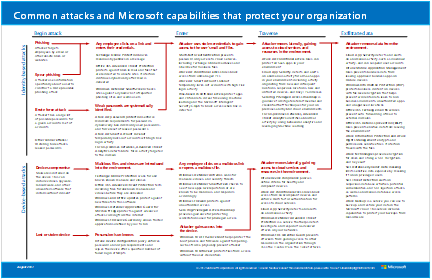
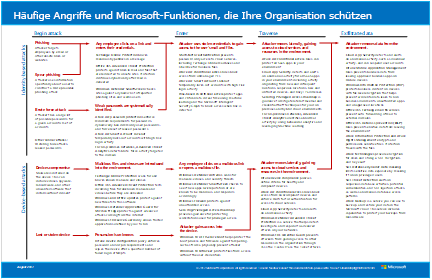
commit translated contents

Changed region(s): [[0.0301, 0.0286, 0.8727, 0.0857]]

diff --git a/Enterprise/hybrid-modern-auth-overview.md b/Enterprise/hybrid-modern-auth-overview.md
@@ -1,10 +1,9 @@
 ---
-title: Übersicht über die moderne Hybrid Authentifizierung und Voraussetzungen für die Verwendung mit lokalen Skype for Business-und Exchange-Servern
+title: Übersicht über die moderne Hybrid Authentifizierung und Voraussetzungen für die Verwendung mit lokalen Skype for Business und Exchange-Servern
 ms.author: tracyp
 ms.reviewer: smithre4
 author: MSFTTracyP
 manager: laurawi
-ms.date: ''
 audience: ITPro
 ms.topic: article
 ms.service: o365-administration
@@ -12,17 +11,17 @@ localization_priority: Normal
 ms.assetid: ef753b32-7251-4c9e-b442-1a5aec14e58d
 ms.collection:
 - M365-security-compliance
-description: Die moderne Authentifizierung ist eine Methode zur Identitätsverwaltung, die eine sicherere Benutzerauthentifizierung und Autorisierung bietet. Es steht für hybridbereitstellungen von lokalen Skype for Business Server-und Exchange Server-lokalen sowie für geteilte Skype for Business-Hybriden zur Verfügung. Dieser Artikel enthält Links zu verwandten Dokumenten zu Voraussetzungen, zum Einrichten/deaktivieren moderner Authentifizierung und zu einigen der zugehörigen Clients (ex. Outlook-und Skype-Clients).
-ms.openlocfilehash: 17c61b028aacd5abaf72450e197475fa2c0a2589
-ms.sourcegitcommit: 08e1e1c09f64926394043291a77856620d6f72b5
+description: Die moderne Authentifizierung ist eine Methode zur Identitätsverwaltung, die eine sicherere Benutzerauthentifizierung und-Autorisierung bietet. Sie ist für hybridbereitstellungen von lokalen Skype for Business-Servern und lokalen Exchange-Servern sowie für geteilte Domänen Skype for Business Hybriden verfügbar. Dieser Artikel enthält Links zu verwandten Dokumenten zu Voraussetzungen, zur Einrichtung/Deaktivierung moderner Authentifizierung und zu einigen der verwandten Clients (ex. Outlook-und Skype-Clients) Informationen.
+ms.openlocfilehash: 0448dfdc46598a6aa4df0108214ff0a4cf290382
+ms.sourcegitcommit: 54c07ffcfe0da286b1780fdc03ba2f2fd0dbc86d
 ms.translationtype: MT
 ms.contentlocale: de-DE
-ms.lasthandoff: 05/15/2019
-ms.locfileid: "34067201"
+ms.lasthandoff: 05/22/2019
+ms.locfileid: "34404217"
 ---
-# <a name="hybrid-modern-authentication-overview-and-prerequisites-for-using-it-with-on-premises-skype-for-business-and-exchange-servers"></a>Übersicht über die moderne Hybrid Authentifizierung und Voraussetzungen für die Verwendung mit lokalen Skype for Business-und Exchange-Servern
+# <a name="hybrid-modern-authentication-overview-and-prerequisites-for-using-it-with-on-premises-skype-for-business-and-exchange-servers"></a>Übersicht über die moderne Hybrid Authentifizierung und Voraussetzungen für die Verwendung mit lokalen Skype for Business und Exchange-Servern
 
-Die moderne Authentifizierung ist eine Methode zur Identitätsverwaltung, die eine sicherere Benutzerauthentifizierung und Autorisierung bietet. Es steht für Office 365 Hybrid-Bereitstellungen von lokalen Skype for Business Server-und Exchange Server-lokalen sowie für geteilte Skype for Business-Hybriden zur Verfügung. Dieser Artikel enthält Links zu verwandten Dokumenten zu Voraussetzungen, zum Einrichten/deaktivieren moderner Authentifizierung und zu einigen der zugehörigen Clients (ex. Outlook-und Skype-Clients). 
+Die moderne Authentifizierung ist eine Methode zur Identitätsverwaltung, die eine sicherere Benutzerauthentifizierung und-Autorisierung bietet. Sie ist für Office 365 hybridbereitstellungen von lokalen Skype for Business-Servern und lokalen Exchange-Servern sowie von Skype for Business Hybriden mit geteilten Domänen verfügbar. Dieser Artikel enthält Links zu verwandten Dokumenten zu Voraussetzungen, zur Einrichtung/Deaktivierung moderner Authentifizierung und zu einigen der verwandten Clients (ex. Outlook-und Skype-Clients) Informationen. 
   
 - [Was ist die moderne Authentifizierung?](hybrid-modern-auth-overview.md#BKMK_WhatisModAuth)
     
@@ -30,7 +29,7 @@ Die moderne Authentifizierung ist eine Methode zur Identitätsverwaltung, die ei
     
 - [Überprüfen des modernen Authentifizierungsstatus Ihrer lokalen Umgebung](hybrid-modern-auth-overview.md#BKMK_CheckStatus)
     
-- [Erfüllen Sie die Voraussetzungen für moderne Authentifizierung?](hybrid-modern-auth-overview.md#BKMK_MeetPrereq)
+- [Erfüllen Sie die Voraussetzungen für die moderne Authentifizierung?](#do-you-meet-modern-authentication-prerequisites)
     
 - [Was muss ich noch wissen, bevor ich beginne?](hybrid-modern-auth-overview.md#BKMK_Whatelse)
     
@@ -39,75 +38,75 @@ Die moderne Authentifizierung ist eine Methode zur Identitätsverwaltung, die ei
 ## <a name="what-is-modern-authentication"></a>Was ist die moderne Authentifizierung?
 <a name="BKMK_WhatisModAuth"> </a>
 
-Bei der Kommunikation zwischen einem Client (beispielsweise Ihrem Laptop oder Ihrem Telefon) und einem Server verwendet Microsoft den Begriff "moderne Authentifizierung".
+Wenn es um die Kommunikation zwischen einem Client (beispielsweise Ihrem Laptop oder Ihrem Telefon) und einem Server geht, verwendet Microsoft den Ausdruck "moderne Authentifizierung".
   
-Die moderne Authentifizierung ist ein Überbegriff für eine Kombination aus Authentifizierungs-und Autorisierungsmethoden sowie einige Sicherheitsmaßnahmen, die auf Zugriffsrichtlinien basieren, die Sie möglicherweise bereits kennen. Sie umfasst Folgendes:
+Die moderne Authentifizierung ist ein Oberbegriff für eine Kombination aus Authentifizierungs-und Autorisierungsmethoden sowie einiger Sicherheitsmaßnahmen, die auf Zugriffsrichtlinien beruhen, die Sie möglicherweise bereits kennen. Sie umfasst Folgendes:
   
-- **Authentifizierungsmethoden**: mehrstufige Authentifizierung; Client zertifikatbasierte Authentifizierung; und die Active Directory-Authentifizierungsbibliothek ( [Adal](https://technet.microsoft.com/en-us/library/mt710548.aspx)).
+- **Authentifizierungsmethoden**: mehrstufige Authentifizierung; Client zertifikatbasierte Authentifizierung.
     
 - **Autorisierungsmethoden**: Microsoft-Implementierung der Open Authorization (OAuth). 
     
-- **Richtlinien für bedingten Zugriff**: Mobile Application Management (MAM) und Azure Active Directory-bedingter Zugriff. 
+- **Richtlinien für den bedingten Zugriff**: MAM (Mobile Application Management) und Azure Active Directory bedingten Zugriff. 
     
-Das Verwalten von Benutzeridentitäten mit moderner Authentifizierung gibt Administratoren viele verschiedene Tools, die bei der Sicherung von Ressourcen verwendet werden können, und bietet sicherere Methoden zur Identitätsverwaltung sowohl für lokale (Exchange als auch Skype for Business), Exchange Hybrid und Skype for Business-Szenarien mit Hybrid-und geteilten Domänen.
+Durch die Verwaltung von Benutzeridentitäten mit moderner Authentifizierung können Administratoren viele verschiedene Tools verwenden, wenn es um die Sicherung von Ressourcen geht, und bietet sicherere Methoden der Identitätsverwaltung sowohl lokal (Exchange und Skype for Business), Exchange-Hybrid und Skype for Business Szenarien mit Hybriden/geteilten Domänen.
   
-Beachten Sie, dass das Anmeldeverhalten von Skype for Business-Client Benutzern, da Skype for Business eng mit Exchange arbeitet, durch den modernen Authentifizierungsstatus von Exchange beeinflusst wird. Dies gilt auch, wenn Sie eine hybride Skype for Business Split-Domain haben. Außerdem wird die Art der Skype for Business-hybride, die die Verwendung der modernen Authentifizierung unterstützt, häufig als "geteilte Domäne" bezeichnet (in einer geteilten Domäne haben Sie sowohl Skype for Business Online als auch Skype for Business auf-Prem, und Benutzer werden an beiden Standorten verwaltet).
+Beachten Sie, dass das Anmeldeverhalten Skype for Business Client Benutzern durch den modernen Authentifizierungsstatus von Exchange bewirkt wird, da Skype for Business eng mit Exchange zusammenarbeitet. Dies gilt auch dann, wenn Sie über eine Skype for Business geteilte Domänen-Hybridlösung verfügen. Außerdem wird der Typ Skype for Business Hybrid, der die Verwendung der modernen Authentifizierung unterstützt, häufig als "Split-Domäne" bezeichnet (in einer geteilten Domäne haben Sie sowohl Skype for Business Online als auch Skype for Business auf-Prem, und die Benutzer werden an beiden Orten verwaltet).
   
 > [!IMPORTANT]
-> Wussten Sie, dass ab August 2017 alle neuen Office 365-Mandanten, die Skype for Business Online und Exchange Online verwenden, die moderne Authentifizierung standardmäßig aktiviert haben? Bereits vorhandene Mandanten haben keine Änderung im Standardstatus MA, aber alle neuen Mandanten unterstützen automatisch den erweiterten Satz von Identitätsfeatures, die oben aufgeführt sind. Um Ihren Status für Skype for Business Online zu überprüfen, können Sie Skype for Business Online PowerShell mit globalen Administratoranmeldeinformationen verwenden. Ausführen `Get-CsOAuthConfiguration` , um die Ausgabe von-ClientADALAuthOverride zu überprüfen. Wenn-ClientADALAuthOverride "zulässig" ist, ist Ihre moderne Authentifizierung eingeschaltet. 
+> Wussten Sie, dass ab August 2017 alle neuen Office 365 Mandanten, die Skype for Business Online und Exchange Online enthalten, standardmäßig aktiviert ist? Bereits vorhandene Mandanten haben keine Änderung im Standard-MA-Zustand, aber alle neuen Mandanten unterstützen automatisch die erweiterte Gruppe von Identitätsfunktionen, die oben aufgeführt sind. Um den MA-Status für Skype for Business Online zu überprüfen, können Sie Skype for Business Online-PowerShell mit globalen Administratoranmeldeinformationen verwenden. Ausführen `Get-CsOAuthConfiguration` , um die Ausgabe von-ClientADALAuthOverride zu überprüfen. Wenn-ClientADALAuthOverride "Allowed" ist, ist die moderne Authentifizierung eingeschaltet. 
   
 ## <a name="what-changes-when-i-use-modern-authentication"></a>Was ändert sich, wenn ich die moderne Authentifizierung verwende?
 <a name="BKMK_WhatChanges"> </a>
 
-Wenn Sie moderne Authentifizierung mit lokalem Skype for Business oder Exchange Server verwenden, *Authentifizieren* Sie Benutzer weiterhin lokal, aber die Geschichte der *Autorisierung* des Zugriffs auf Ressourcen (wie Dateien oder e-Mails) ändert sich. Obwohl bei der modernen Authentifizierung die Client-und Server Kommunikation durchgeführt wird, führen die Schritte beim Konfigurieren von Ma dazu, dass evoSTS (ein von Azure AD verwendeter Sicherheitstokendienst) als Authentifizierungsserver für Skype for Business und Exchange Server festgelegt wird. 
+Wenn Sie die moderne Authentifizierung mit lokalem Skype for Business oder Exchange Server verwenden, werden Benutzer weiterhin lokal *authentifiziert* , aber die Geschichte der *Autorisierung* Ihres Zugriffs auf Ressourcen (wie Dateien oder e-Mails) ändert sich. Aus diesem Grund wird bei der modernen Authentifizierung die Client-und Server Kommunikation durchgeführt, während die Schritte beim Konfigurieren von Ma dazu führen, dass evoSTS (ein Sicherheitstokendienst, der von Azure AD verwendet wird) als Authentifizierungsserver für Skype for Business und Exchange Server lokal festgelegt wird. 
   
-Die Änderung an evoSTS ermöglicht Ihren lokalen Servern das Nutzen von OAuth (Token Emission) für die Autorisierung Ihrer Clients und ermöglicht auch, dass Ihre lokalen Sicherheitsmethoden in der Cloud gemeinsam nutzen (wie mehrstufige Authentifizierung). Darüber hinaus gibt der evoSTS Token heraus, mit denen Benutzer Zugriff auf Ressourcen anfordern können, ohne Ihr Kennwort als Teil der Anforderung anzugeben. Unabhängig davon, wo Ihre Benutzer (von Online oder lokal) verwaltet werden, und unabhängig davon, an welchem Speicherort die erforderliche Ressource gehostet wird, wird EvoSTS der Kern der Autorisierung von Benutzern und Clients, nachdem die moderne Authentifizierung konfiguriert wurde.
+Durch die Änderung an evoSTS können Ihre lokalen Server die Vorteile von OAuth (Token Emission) zum Autorisieren ihrer Clients nutzen und ihre lokalen Sicherheitsmethoden in der Cloud (wie die mehrstufige Authentifizierung) auch gemeinsam nutzen. Darüber hinaus gibt das evoSTS Token aus, mit denen Benutzer Zugriff auf Ressourcen anfordern können, ohne Ihr Kennwort als Teil der Anforderung anzugeben. Unabhängig davon, wo Ihre Benutzer verwaltet werden (Online oder lokal), und unabhängig davon, an welchem Standort die erforderliche Ressource gehostet wird, wird EvoSTS zum Kern der Autorisierung von Benutzern und Clients werden, sobald die moderne Authentifizierung konfiguriert ist.
   
-Hier sehen Sie ein Beispiel dafür, was ich meine. Wenn der Skype for Business-Client auf Exchange Server zugreifen muss, um Kalenderinformationen im Namen eines Benutzers abzurufen, wird die Active Directory-Authentifizierungsbibliothek (Adal) dazu verwendet. Adal ist eine Codebibliothek, mit der gesicherte Ressourcen in Ihrem Verzeichnis für Clientanwendungen mit OAuth-Sicherheitstoken zur Verfügung gestellt werden. Adal verwendet OAuth zum Überprüfen von Anspruchs-und Exchange-Token (anstelle von Kennwörtern), um einem Benutzer Zugriff auf eine Ressource zu gewähren. In der Vergangenheit war die Autorität in einer Transaktion wie dieser--der Server, der die Benutzeranforderungen überprüfen und die erforderlichen Token ausgeben kann--möglicherweise ein Sicherheitstokendienst oder sogar Active Directory-Verbunddienste. Die moderne Authentifizierung zentralisiert diese Autorität jedoch mit Azure Active Directory (Azure AD) in der Cloud.
+Hier ist ein Beispiel dafür, was ich meine. Wenn Skype for Business-Client auf Exchange Server zugreifen muss, um Kalenderinformationen im Namen eines Benutzers abzurufen, wird hierfür die Active Directory-Authentifizierungsbibliothek (Adal) verwendet. Adal ist eine Codebibliothek, mit der gesicherte Ressourcen in Ihrem Verzeichnis für Clientanwendungen mithilfe von OAuth-Sicherheitstoken verfügbar gemacht werden können. Adal arbeitet mit OAuth zusammen, um Ansprüche zu überprüfen und Token zu tauschen (statt Kennwörter), um einem Benutzer Zugriff auf eine Ressource zu gewähren. In der Vergangenheit war die Autorität in einer Transaktion wie diese – der Server, der weiß, wie benutzeransprüche überprüft werden und die erforderlichen Token ausgeben müssen – möglicherweise ein Sicherheitstokendienst lokal oder sogar Active Directory Verbunddienste. Die moderne Authentifizierung zentralisiert diese Autorität jedoch mit Azure Active Directory (Azure AD) in der Cloud.
   
-Auch wenn Ihre Exchange-Server und Skype for Business-Umgebungen möglicherweise vollständig lokal sind, ist der autorisierungsserver Online, und Ihre lokale Umgebung muss die Möglichkeit haben, eine Verbindung mit Ihrem Office herzustellen und zu verwalten. 365-Abonnement in der Cloud (und die Azure Active Directory-Instanz, die Ihr Abonnement als Verzeichnis verwendet).
+Dies bedeutet auch, dass, obwohl ihre Exchange Server-und Skype for Business-Umgebungen möglicherweise vollständig lokal sind, der autorisierungsserver Online ist und Ihre lokale Umgebung die Möglichkeit zum Erstellen und Verwalten einer Verbindung mit Ihrem Office haben muss. 365-Abonnement in der Cloud (und die Azure Active Directory Instanz, die Ihr Abonnement als Verzeichnis verwendet).
   
-Was ändert sich nicht? Unabhängig davon, ob Sie sich in einer geteilten Domäne oder mit Skype for Business und Exchange Server on-premises befinden, müssen sich alle Benutzer zuerst *lokal* authentifizieren. In einer hybriden Implementierung der modernen Authentifizierung zeigen Lyncdiscovery und AutoDiscovery auf Ihren lokalen Server. 
+Was ändert sich nicht? Unabhängig davon, ob Sie sich in einer Hybrid Domäne mit geteilten Domänen befinden oder Skype for Business und Exchange Server lokal verwenden, müssen sich alle Benutzer zunächst *lokal* authentifizieren. In einer Hybrid Implementierung der modernen Authentifizierungs-, Lyncdiscovery-und AutoDiscovery-Anwendung wird auf Ihren lokalen Server verwiesen. 
   
 > [!IMPORTANT]
-> Wenn Sie die spezifischen Skype for Business-Topologien kennen müssen, die mit MA unterstützt werden, ist dies [hier dokumentiert](https://technet.microsoft.com/en-us/library/mt803262.aspx).
+> Wenn Sie die spezifischen Skype for Business Topologien kennen müssen, die mit MA unterstützt werden, ist dies [hier dokumentiert](https://technet.microsoft.com/en-us/library/mt803262.aspx).
   
 ## <a name="check-the-modern-authentication-status-of-your-on-premises-environment"></a>Überprüfen des modernen Authentifizierungsstatus Ihrer lokalen Umgebung
 <a name="BKMK_CheckStatus"> </a>
 
-Da die moderne Authentifizierung den autorisierungsserver ändert, der verwendet wird, wenn Dienste OAuth/S2S nutzen, müssen Sie wissen, ob die moderne Authentifizierung für Ihre Skype for Business-und Exchange-Umgebung ein-oder ausgeschaltet ist. Sie können den Status auf Ihren Exchange-oder Skype for Business-Servern lokal überprüfen, indem Sie `Get-CSOAuthConfiguration` den Befehl in PowerShell ausführen. Wenn der Befehl eine leere ' OAuthServers '-Eigenschaft zurückgibt, wird die moderne Authentifizierung deaktiviert.
+Da die moderne Authentifizierung den autorisierungsserver ändert, der verwendet wird, wenn Dienste OAuth/S2S nutzen, müssen Sie wissen, ob die moderne Authentifizierung für Ihre Skype for Business-und Exchange-Umgebung ein-oder ausgeschaltet ist. Sie können den Status auf Ihren Exchange-oder Skype for Business Servern lokal überprüfen, indem Sie den `Get-CSOAuthConfiguration` Befehl in PowerShell ausführen. Wenn der Befehl eine leere "OAuthServers"-Eigenschaft zurückgibt, ist die moderne Authentifizierung deaktiviert.
   
-## <a name="do-you-meet-modern-authentication-prerequisites"></a>Erfüllen Sie die Voraussetzungen für moderne Authentifizierung?
+## <a name="do-you-meet-modern-authentication-prerequisites"></a>Erfüllen Sie die Voraussetzungen für die moderne Authentifizierung?
 
 Überprüfen und überprüfen Sie diese Elemente aus der Liste, bevor Sie fortfahren:
   
-- **Speziell für Skype for Business**
+- **Skype for Business spezifisch**
     
-  - Alle Server benötigen SFB Server 2015 CU5 oder höher
+  - Für alle Server muss SFB Server 2015 CU5 oder höher vorhanden sein.
     
-  - **Exception** -Survivable Branch Appliance (SBA) kann in der aktuellen Version sein (basierend auf lync 2013) 
+  - **Ausnahme** -Survivable Branch Appliance (SBA) kann in der aktuellen Version (basierend auf lync 2013) sein 
     
-  - Ihre SIP-Domäne wird als Verbunddomäne in Office 365 hinzugefügt.
+  - Ihre SIP-Domäne wird in Office 365 als Verbunddomäne hinzugefügt.
     
-  - Alle SFB-Front-Ends müssen über ausgehende Verbindungen zum Internet, zu Office 365-Authentifizierungs-URLs (TCP 443) und bekannte Zertifikatstamm CRLs (TCP 80) verfügen, die in den Zeilen 56 und 125 des Abschnitts "Microsoft 365 Common and Office Online" von [Office 365 URLs und IP aufgeführt sind. Adressbereiche](urls-and-ip-address-ranges.md).
+  - Alle SFB-Front-Ends müssen über ausgehende Verbindungen mit dem Internet, zum Office 365 von Authentifizierungs-URLs (TCP 443) und bekannten Zertifikatstamm CRLs (TCP 80) verfügen, die in den Zeilen 56 und 125 des Abschnitts "Microsoft 365 Common and Office Online" [Office 365 URLs und IP aufgeführt sind. Adressbereiche](urls-and-ip-address-ranges.md).
   
-- **Skype for Business lokal in einer hybriden Office 365-Umgebung**
-  - Eine Skype for Business Server 2019-Bereitstellung mit allen Servern mit Skype for Business Server 2019.
+- **Skype for Business lokal in einer hybriden Office 365 Umgebung**
+  - Eine Skype for Business Server 2019-Bereitstellung mit allen Servern, auf denen Skype for Business Server 2019 läuft.
   
-  - Eine Skype for Business Server 2015-Bereitstellung mit allen Servern mit Skype for Business Server 2015.
+  - Eine Skype for Business Server 2015 Bereitstellung mit allen Servern, auf denen Skype for Business Server 2015 läuft.
   
   - Eine Bereitstellung mit maximal zwei unterschiedlichen Server Versionen, wie unten aufgeführt:
   
      - Skype for Business Server 2015 und Skype for Business Server 2019
      
-  - Für alle Skype for Business-Server müssen die neuesten kummulative-Updates installiert sein, weitere Informationen finden Sie unter [Skype for Business Server-Updates](https://docs.microsoft.com/skypeforbusiness/sfb-server-updates) , um alle verfügbaren Updates zu finden und zu verwalten.
-  - In der Hybridumgebung gibt es keinen lync Server 2010 oder 2013.
+  - Auf allen Skype for Business Servern müssen die neuesten kummulative-Updates installiert sein, weitere Informationen finden Sie unter [Skype for Business Server Updates](https://docs.microsoft.com/skypeforbusiness/sfb-server-updates) , um alle verfügbaren Updates zu finden und zu verwalten.
+  - In der Hybridumgebung gibt es keine lync Server 2010 oder 2013.
     
- **Hinweis** Wenn Ihre Skype for Business-Front-End-Server einen Proxy Server für den Internet Zugriff verwenden, muss die verwendete Proxy Server-IP und-Nummer im Konfigurationsabschnitt der Datei Web. config für jedes Front-End eingegeben werden. 
+ **Hinweis:** Wenn Ihre Skype for Business-Front-End-Server einen Proxy Server für den Internet Zugriff verwenden, muss die IP-Adresse des Proxyservers und die verwendete Port Nummer im Abschnitt "Configuration" der Datei "Web. config" für jedes Front-End eingegeben werden. 
   
-- C:\Program Files\Skype for Business Server 2015 \ Web Components\Web ticket\int\web.config
+- C:\Program Files\Skype for Business Server 2015 \ Components\Web-ticket\int\web.config
     
-- C:\Program Files\Skype for Business Server 2015 \ Web Components\Web ticket\ext\web.config
+- C:\Program Files\Skype for Business Server 2015 \ Components\Web-ticket\ext\web.config
     
 ```xml
 <system.identityModel.services>
@@ -122,69 +121,69 @@ Da die moderne Authentifizierung den autorisierungsserver ändert, der verwendet
 ```
     
 > [!IMPORTANT]
-> Achten Sie darauf, den RSS-Feed für [Office 365-URLs und IP-Adressbereiche](urls-and-ip-address-ranges.md) zu abonnieren, um mit den aktuellen Auflistungen der erforderlichen URLs auf dem neuesten Stand zu bleiben. 
+> Achten Sie darauf, den RSS-Feed für [Office 365 URLs und IP-Adressbereiche](urls-and-ip-address-ranges.md) zu abonnieren, um mit den neuesten Auflistungen der erforderlichen URLs auf dem aktuellen Stand zu bleiben. 
   
-- **Exchange Server-spezifisch**
+- **Exchange Server spezifisch**
     
-  - Sie verwenden entweder Exchange Server 2013 ku19 und up oder Exchange Server 2016 ku8 und up.
+  - Sie verwenden entweder Exchange Server 2013 ku19 und up oder Exchange Server 2016 ku8 und hoch.
     
-  - In der Umgebung gibt es keine Exchange Server 2010.
+  - In der Umgebung gibt es keinen Exchange Server 2010.
     
-  - SSL-Abladung ist nicht konfiguriert. SSL-Terminierung und erneute Verschlüsselung wird unterstützt.
+  - Die SSL-Abladung ist nicht konfiguriert. SSL-Beendigung und erneute Verschlüsselung werden unterstützt.
     
-  - Falls Ihre Umgebung eine Proxy Server-Infrastruktur verwendet, damit die Server eine Verbindung mit dem Internet herstellen können, stellen Sie sicher, dass auf allen Exchange-Servern der Proxy Server in der [para internetweb](https://technet.microsoft.com/library/bb123716%28v=exchg.160%29.aspx) -Eigenschaft definiert ist.
+  - Wenn Ihre Umgebung eine Proxy Serverinfrastruktur verwendet, damit Server eine Verbindung mit dem Internet herstellen können, müssen Sie sicherstellen, dass auf allen Exchange-Servern der Proxy Server in der [para internetweb](https://technet.microsoft.com/library/bb123716%28v=exchg.160%29.aspx) -Eigenschaft definiert ist.
   
-- **Lokale Exchange-Server in einer hybriden Office-365-Umgebung**
+- **Exchange Server lokal in einer hybriden Office 365 Umgebung**
 
-  - Wenn Sie Exchange Server 2013 verwenden, müssen auf mindestens einem Server die Serverrollen Mailbox und Client Access installiert sein. Es ist zwar möglich, die Postfach-und Client Zugriffsrollen auf separaten Servern zu installieren, es wird jedoch dringend empfohlen, beide Rollen auf jedem Server zu installieren, um zusätzliche Zuverlässigkeit und verbesserte Leistung zu gewährleisten.
+  - Wenn Sie Exchange Server 2013 verwenden, muss auf mindestens einem Server die Postfachserverrolle und die Client Zugriffs-Serverrolle installiert sein. Es ist zwar möglich, die Postfachserver-und Client Zugriffsrollen auf separaten Servern zu installieren, es wird jedoch dringend empfohlen, dass Sie beide Rollen auf jedem Server installieren, um zusätzliche Zuverlässigkeit und höhere Leistung zu gewährleisten.
   
-  - Wenn Sie Exchange Server 2016 oder höher verwenden, muss auf mindestens einem Server die Postfachserverrolle installiert sein.
+  - Wenn Sie Exchange Server 2016 oder eine höhere Version verwenden, muss mindestens ein Server die Postfachserverrolle installiert haben.
   
-  - In der Hybrid Umgebung gibt es weder Exchange Server 2007 noch 2010.
+  - In der Hybrid Umgebung gibt es keine Exchange-Server 2007 oder 2010.
   
-  - Auf allen Exchange-Servern müssen die neuesten kummulative-Updates installiert sein, unter [Aktualisieren von Exchange auf die neuesten kumulativen Updates](https://docs.microsoft.com/en-us/exchange/plan-and-deploy/install-cumulative-updates?view=exchserver-2019) , um alle verfügbaren Updates zu finden und zu verwalten.
+  - Auf allen Exchange-Servern müssen die neuesten kummulative-Updates installiert sein, siehe [Upgrade von Exchange auf die neuesten kumulativen Updates](https://docs.microsoft.com/en-us/exchange/plan-and-deploy/install-cumulative-updates?view=exchserver-2019) , um alle verfügbaren Updates zu finden und zu verwalten.
     
-- **Exchange-Client-und-Protokollanforderungen**
+- **Exchange-Client-und Protokollanforderungen**
   
   - Die folgenden Clients unterstützen die moderne Authentifizierung:
 
   |**Clients**|**Primäres Protokoll**|**Hinweise**|
   |:-----|:-----|:-----|
-  |Outlook 2013 und Outlook 2016  <br/> |MAPI über HTTP  <br/> |MAPI über HTTP muss in Exchange aktiviert sein, damit die moderne Authentifizierung mit diesen Clients (in der Regel für neue Installationen von Exchange 2013 Service Pack 1 und höher) aktiviert werden kann. Weitere Informationen finden Sie unter [Funktionsweise der modernen Authentifizierung für Office 2013-und Office 2016-Client-apps](https://docs.microsoft.com/en-us/office365/enterprise/modern-auth-for-office-2013-and-2016).  <br/> Stellen Sie sicher, dass Sie die erforderliche Mindestversion von Outlook erstellen. Lesen Sie [die neuesten Updates für Outlook-Versionen, die Windows Installer (MSI) verwenden](https://docs.microsoft.com/en-us/officeupdates/outlook-updates-msi).  <br/> |
+  |Outlook 2013 und Outlook 2016  <br/> |MAPI über HTTP  <br/> |MAPI über HTTP muss in Exchange aktiviert sein, damit die moderne Authentifizierung mit diesen Clients (in der Regel aktiviert oder true für neue Installationen von Exchange 2013 Service Pack 1 und höher) genutzt werden kann. Weitere Informationen finden Sie unter [Funktionsweise der modernen Authentifizierung für Office 2013-und Office 2016-Client-apps](https://docs.microsoft.com/en-us/office365/enterprise/modern-auth-for-office-2013-and-2016).  <br/> Stellen Sie sicher, dass Sie den minimal erforderlichen Build von Outlook durchführen. Informationen [zu den neuesten Updates für Outlook-Versionen, die Windows Installer (MSI) verwenden](https://docs.microsoft.com/en-us/officeupdates/outlook-updates-msi).  <br/> |
   |Outlook 2016 für Mac  <br/> |Exchange-Webdienste  <br/> |  <br/> |
   |Outlook für iOS und Android  <br/> |  <br/> |Weitere Informationen finden Sie unter [Verwenden der modernen Hybrid Authentifizierung mit Outlook für IOS und Android](https://docs.microsoft.com/en-us/Exchange/clients/outlook-for-ios-and-android/use-hybrid-modern-auth) .  <br/> |
-  |Exchange ActiveSync-Clients (z. b. iOS11-Mail)  <br/> |Exchange ActiveSync  <br/> |Für Exchange ActiveSync-Clients, die die moderne Authentifizierung unterstützen, müssen Sie das Profil neu erstellen, um von der Standardauthentifizierung zur modernen Authentifizierung zu wechseln.  <br/> |
+  |Exchange ActiveSync-Clients (beispielsweise iOS11 Mail)  <br/> |Exchange ActiveSync  <br/> |Für Exchange ActiveSync-Clients, die die moderne Authentifizierung unterstützen, müssen Sie das Profil neu erstellen, um von der Standardauthentifizierung zur modernen Authentifizierung zu wechseln.  <br/> |
 
 - **Allgemeine Voraussetzungen**
     
-  - Wenn Sie ADFS verwenden, sollten Sie Windows 2012 R2 ADFS 3,0 und höher für den Verbund haben.
+  - Bei Verwendung von ADFS sollten Windows 2012 R2 ADFS 3,0 und höher für den Verbund vorhanden sein.
     
-  - Ihre Identitäts Konfigurationen sind alle Typen, die von Aad Connect (beispielsweise Kennworthash Synchronisierung, Pass-Through-Authentifizierung, lokale STS, unterstützt von Office 365 usw.) unterstützt werden.
+  - Ihre Identitäts Konfigurationen sind alle Typen, die von Aad Connect unterstützt werden (wie Kennworthash Synchronisierung, Pass-Through-Authentifizierung, von Office 365 unterstützte lokale STS).)
     
-  - Sie haben Aad Connect konfiguriert und funktionieren für die Benutzerreplikation und-Synchronisierung.
+  - Sie haben Aad Connect konfiguriert und funktioniert für die Benutzerreplikation und-Synchronisierung.
     
-  - Sie haben überprüft, ob Hybrid mit dem klassischen Exchange-Hybrid topologiemodus zwischen Ihrer lokalen und der Office 365-Umgebung konfiguriert ist. Offizielle Support-Anweisung für Exchange Hybrid sagt, dass Sie entweder die aktuelle Cu-oder Current-Cu-1 haben müssen.
+  - Sie haben sichergestellt, dass die Hybrid Konfiguration mit dem Exchange Classic Hybrid Topology Mode zwischen Ihrer lokalen und Office 365 Umgebung konfiguriert ist. Offizielle Support-Anweisung für Exchange Hybrid Says: Sie müssen entweder aktuelle Cu oder aktuelle Cu-1 haben.
     
     > [!Note]
     > Die moderne Hybrid Authentifizierung wird mit dem [Hybrid-Agent](https://docs.microsoft.com/exchange/hybrid-deployment/hybrid-agent)nicht unterstützt.
     
-  - Stellen Sie sicher, dass sowohl ein lokale Testbenutzer als auch ein in Office 365 verwalteter Hybrid Testbenutzer sich beim Skype for Business-Desktop Client anmelden können (wenn Sie die moderne Authentifizierung mit Skype verwenden möchten) und Microsoft Outlook (wenn Sie dies wünschen, verwenden Sie die moderne Authentifizierung mit Exchange).
+  - Stellen Sie sicher, dass sowohl ein lokaler Testbenutzer als auch ein in Office 365 verwalteter Hybrid Testbenutzer sich beim Skype for Business-Desktop Client anmelden können (wenn Sie die moderne Authentifizierung mit Skype verwenden möchten) und Microsoft Outlook (wenn Sie die moderne Authentifizierung mit verwenden möchten). Exchange).
     
 ## <a name="what-else-do-i-need-to-know-before-i-begin"></a>Was muss ich noch wissen, bevor ich beginne?
 <a name="BKMK_Whatelse"> </a>
 
-1. Bei allen Szenarien für lokale Server muss die moderne Authentifizierung lokal eingerichtet werden (tatsächlich gibt es für Skype for Business eine Liste der unterstützten Topologien), sodass der Server, der für die Authentifizierung und Autorisierung zuständig ist, sich in der Microsoft-Cloud befindet ( Aad-Sicherheitstokendienst, "evoSTS" genannt) und Aktualisieren von Azure Active Directory (AAD) zu den URLs oder Namespaces, die von Ihrer lokalen Installation von Skype for Business oder Exchange verwendet werden. Daher übernehmen lokale Server eine Microsoft-Cloud-Abhängigkeit. Diese Aktion kann als "Hybrid Authentifizierung" konfiguriert werden.
+1. Alle Szenarien für lokale Server beinhalten die Einrichtung moderner Authentifizierung lokal (in der Tat, für Skype for Business eine Liste unterstützter Topologien vorhanden ist), sodass der für die Authentifizierung und Autorisierung zuständige Server in der Microsoft-Cloud liegt ( Aad-Sicherheitstokendienst mit dem Namen "evoSTS" und Aktualisieren von Azure Active Directory (AAD) zu den URLs oder Namespaces, die von der lokalen Installation von Skype for Business oder Exchange verwendet werden. Daher nehmen lokale Server eine Microsoft-Cloud-Abhängigkeit an. Die Durchführung dieser Aktion könnte als Konfigurieren von "hybrider Authentifizierung" betrachtet werden.
     
-2. Dieser Artikel enthält Links zu anderen, die Sie bei der Auswahl unterstützter moderner Authentifizierungs Topologien (nur für Skype for Business erforderlich) und Artikel mit Vorgehensweisen zur Beschreibung der Einrichtungsschritte oder zur Deaktivierung der modernen Authentifizierung für Exchange lokal unterstützen. und Skype for Business vor Ort. Favorit diese Seite in Ihrem Browser, wenn Sie eine Basis für die Verwendung der modernen Authentifizierung in Ihrer Server Umgebung benötigen.
+2. Dieser Artikel enthält Links zu anderen, die Sie bei der Auswahl unterstützter moderner Authentifizierungs Topologien (nur für Skype for Business erforderlich) und in den Vorgehensweisen, in denen die Installationsschritte oder Schritte zum Deaktivieren der modernen Authentifizierung für lokale Exchange-Bereitstellung erläutert werden. und Skype for Business lokal. Favorite diese Seite in Ihrem Browser, wenn Sie eine Home-Base für die Verwendung der modernen Authentifizierung in Ihrer Server Umgebung benötigen werden.
     
 ## <a name="list-of-modern-authentication-urls"></a>Liste der modernen Authentifizierungs-URLs
 <a name="BKMK_URLListforMA"> </a>
 
-- [Konfigurieren von Exchange Server für die Verwendung der modernen Authentifizierung](configure-exchange-server-for-hybrid-modern-authentication.md)
+- [Vorgehensweise konfigurieren Exchange Server lokal für die Verwendung der modernen Authentifizierung](configure-exchange-server-for-hybrid-modern-authentication.md)
     
-- [Unterstützte Skype for Business-Topologien mit moderner Authentifizierung](https://technet.microsoft.com/en-us/library/mt803262.aspx)
+- [Skype for Business Topologien, die mit moderner Authentifizierung unterstützt werden](https://technet.microsoft.com/en-us/library/mt803262.aspx)
     
-- [Konfigurieren von Skype for Business lokal für die Verwendung der modernen Authentifizierung](configure-skype-for-business-for-hybrid-modern-authentication.md)
+- [Vorgehensweise konfigurieren Skype for Business lokal für die Verwendung der modernen Authentifizierung](configure-skype-for-business-for-hybrid-modern-authentication.md)
     
 - [Entfernen oder Deaktivieren der modernen Hybridauthentifizierung aus Skype for Business und Exchange](remove-or-disable-hybrid-modern-authentication-from-skype-for-business-and-excha.md)
     
